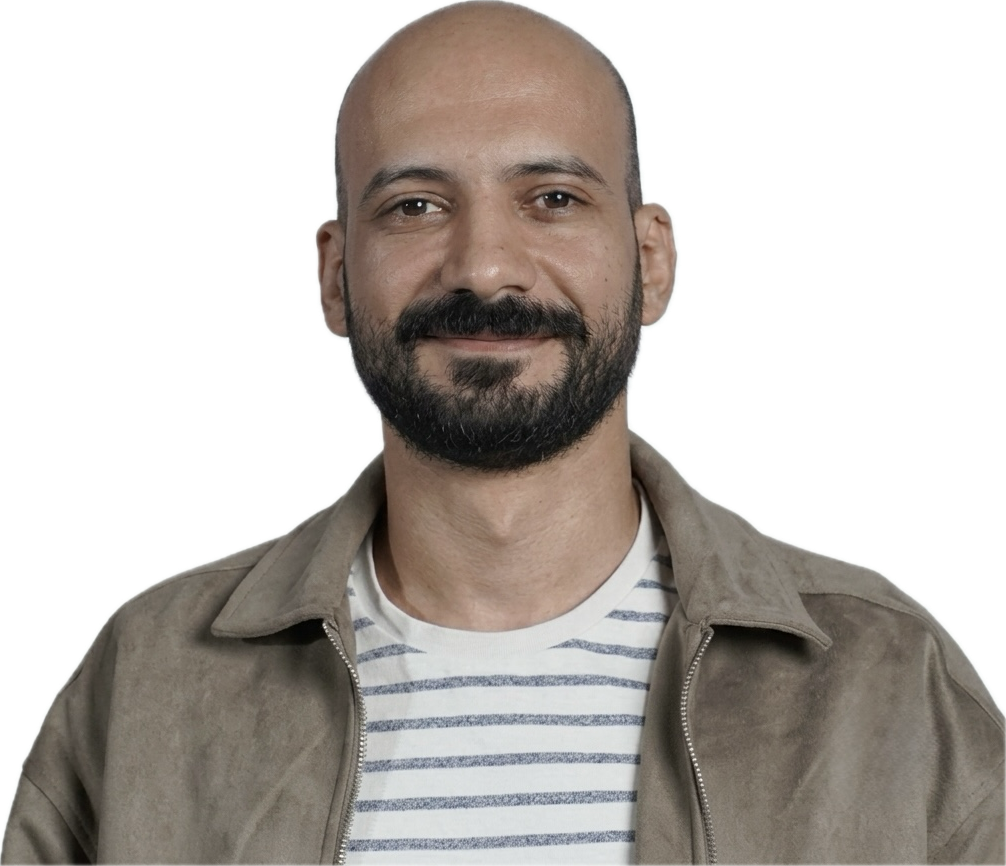
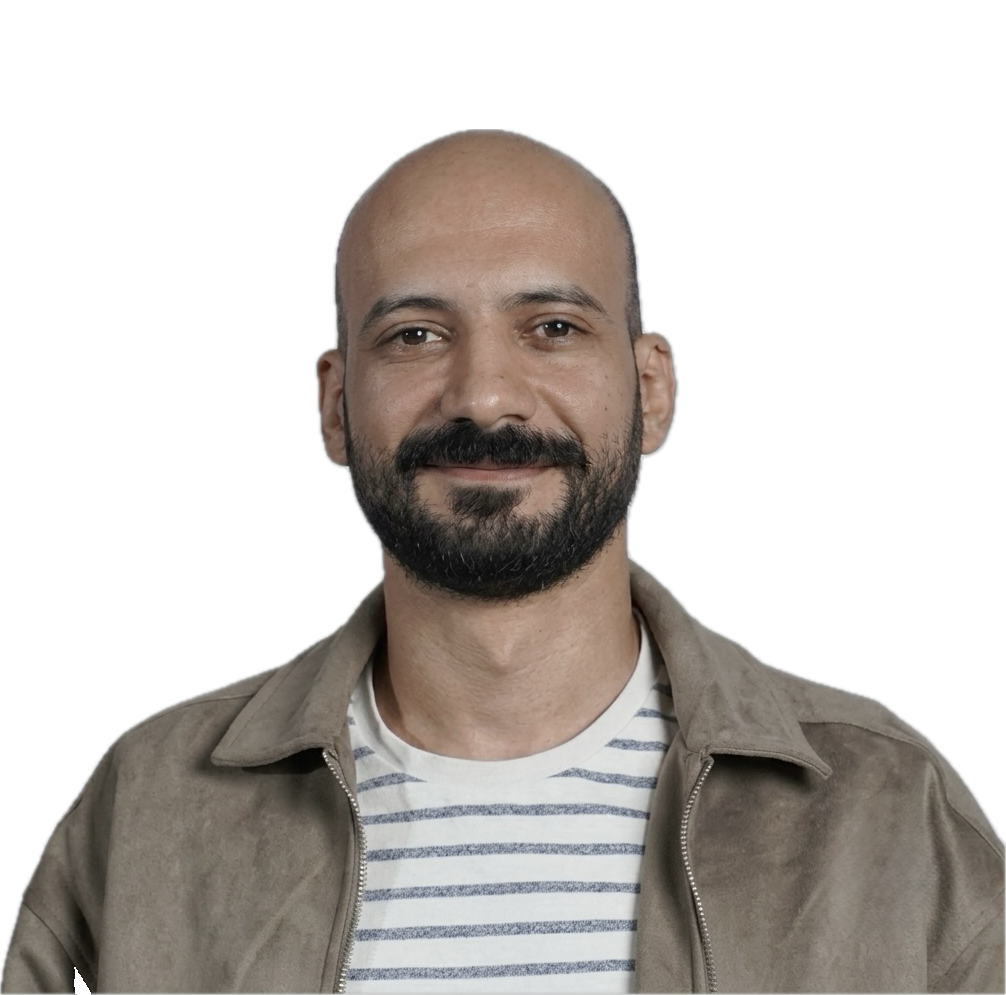
enhance image

diff --git a/index.html b/index.html
@@ -83,7 +83,8 @@
 
   header{padding:64px 0 56px}
   .hero-grid{display:grid;grid-template-columns:1fr 240px;gap:40px;align-items:center}
-  .portrait img{width:240px;height:240px;object-fit:cover;border-radius:18px;border:1px solid var(--line);display:block;background:var(--accent-soft)}
+  .portrait{width:240px;height:240px;border-radius:18px;border:1px solid var(--line);overflow:hidden;background:var(--accent-soft)}
+  .portrait img{width:100%;height:100%;object-fit:cover;object-position:48% 35%;display:block}
   h1{font-family:var(--display);font-weight:700;font-size:clamp(34px,6vw,52px);line-height:1.1;letter-spacing:-0.02em;margin-bottom:18px}
   .lede{font-size:18px;color:var(--muted);max-width:540px}
 
@@ -141,7 +142,8 @@
     header{padding:40px 0 36px}
     .hero-grid{grid-template-columns:1fr;gap:24px}
     .portrait{order:-1}
-    .portrait img{width:150px;height:150px;border-radius:14px}
+    .portrait{width:150px;height:150px;border-radius:14px}
+    .portrait img{width:100%;height:100%}
     .lede{font-size:16.5px}
     .ask{padding:4px 0 48px}
     .choices{grid-template-columns:1fr}